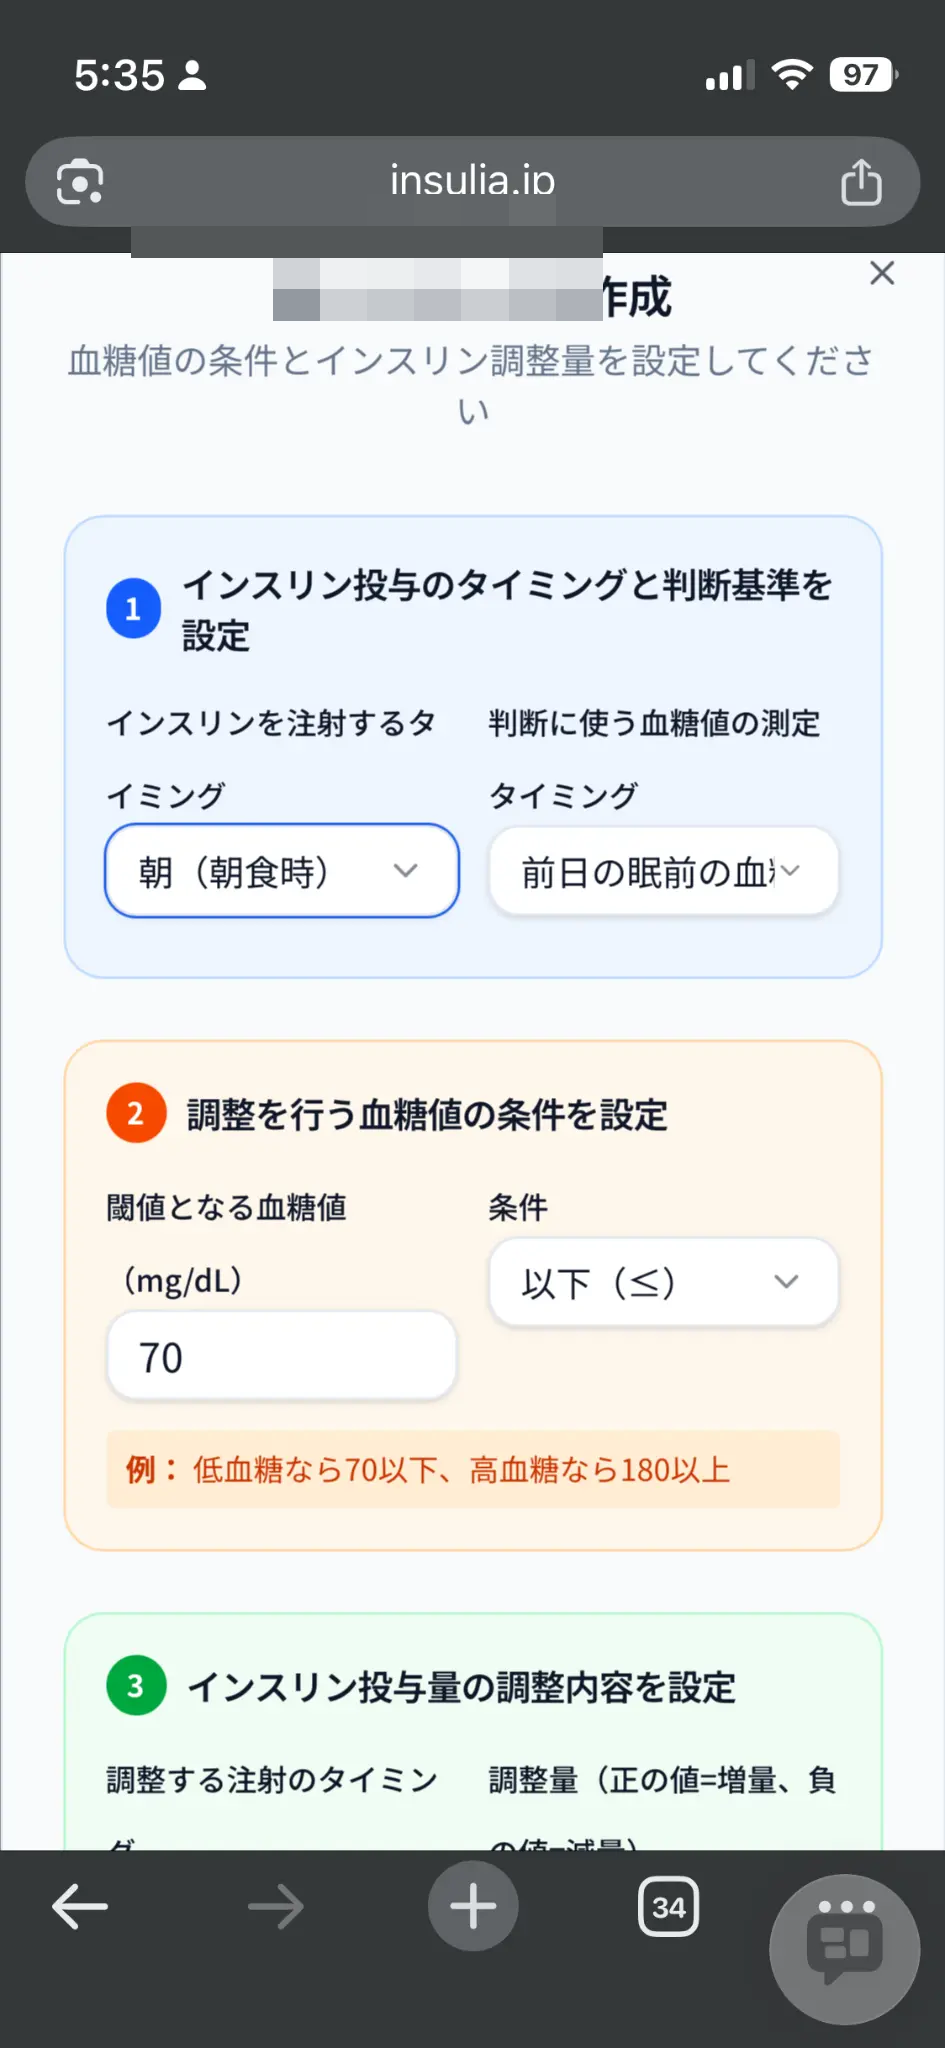
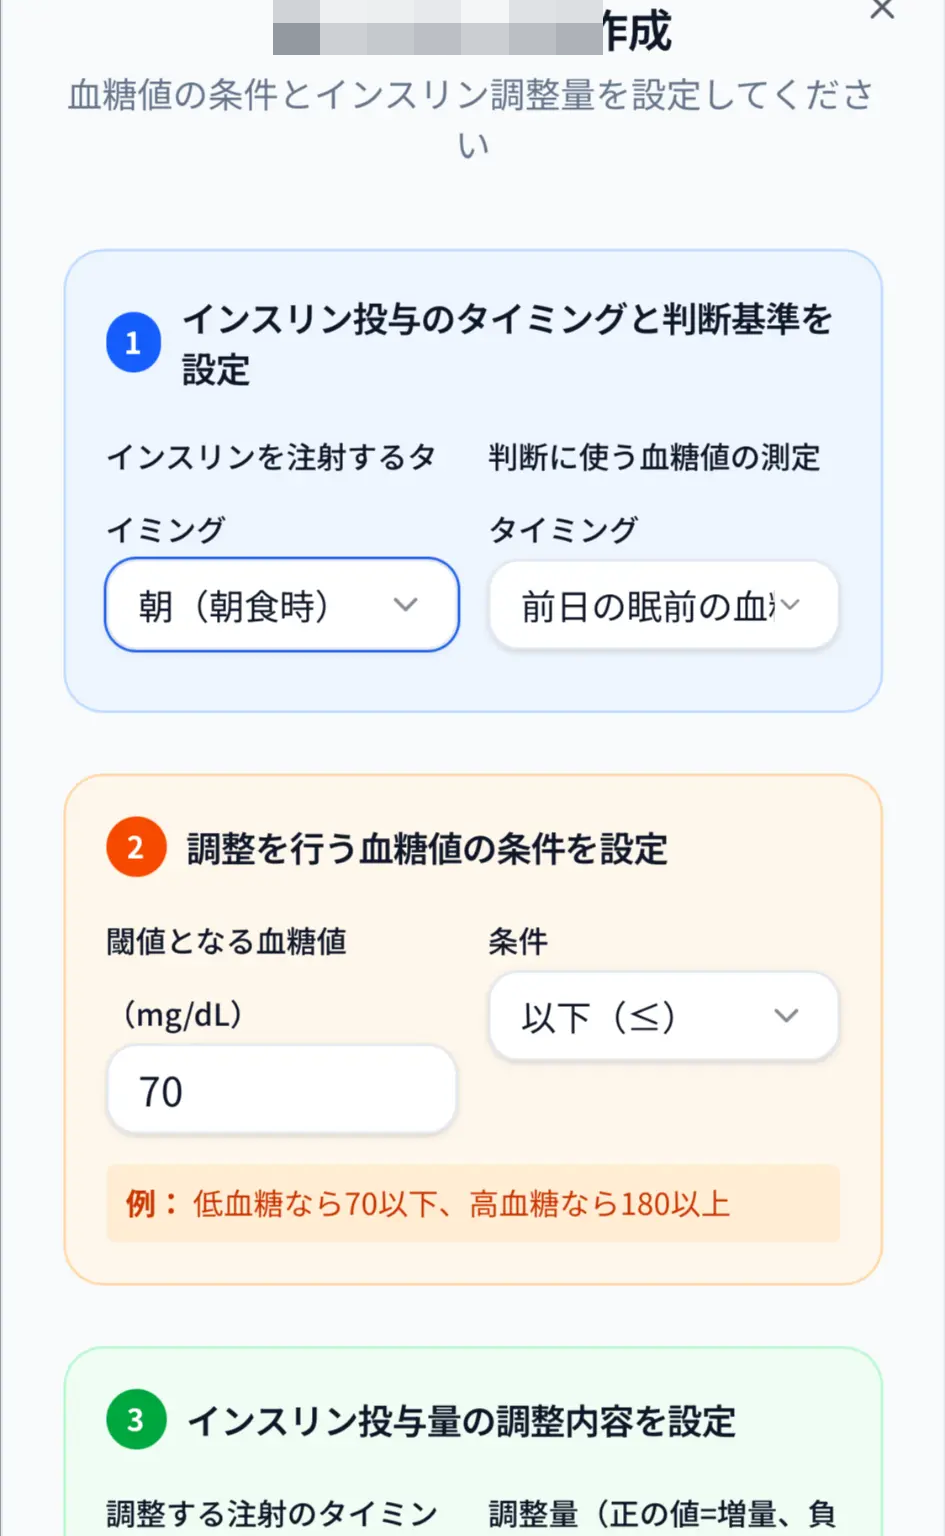
fix: 機能カード画像をトリミング最適化、インスリン登録画像差し替え、ナビバー折り返し修正

diff --git a/client/src/pages/LandingPage.tsx b/client/src/pages/LandingPage.tsx
@@ -297,7 +297,7 @@ const steps = [
     icon: <Settings2 className="w-6 h-6" />,
     title: "インスリンを登録",
     desc: "使用しているインスリン製品と標準投与量をプリセットとして登録。複数種類にも対応。",
-    img: "/images/step-1-preset-setup.png",
+    img: "/images/screenshot-insulin-setup.png",
   },
   {
     step: "2",
@@ -343,7 +343,7 @@ export default function LandingPage() {
             <div className="w-8 h-8 rounded-lg overflow-hidden shadow-md shadow-primary/30">
               <img src="/images/hero-icon-insulia.png" alt="インスリア" className="w-full h-full object-cover" />
             </div>
-            <span className="font-bold text-lg tracking-tight">インスリア</span>
+            <span className="font-bold text-lg tracking-tight whitespace-nowrap">インスリア</span>
             {/* β版バッジ */}
             <Badge className="bg-amber-100 text-amber-700 border-amber-200 text-[10px] px-2 py-0.5 font-semibold hidden sm:inline-flex">
               <FlaskConical className="w-2.5 h-2.5 mr-1" />
@@ -734,7 +734,7 @@ export default function LandingPage() {
                       <ImageWithFallback
                         src={steps[activeStep].img}
                         alt={steps[activeStep].title}
-                        className="w-full h-full object-cover object-top"
+                        className="w-full h-full object-cover object-center"
                         fallback={
                           <div className="flex flex-col items-center gap-4 text-muted-foreground p-8 bg-gradient-to-br from-primary/5 to-blue-50 h-full">
                             <div className="w-16 h-16 rounded-2xl bg-primary/10 flex items-center justify-center mt-12">
